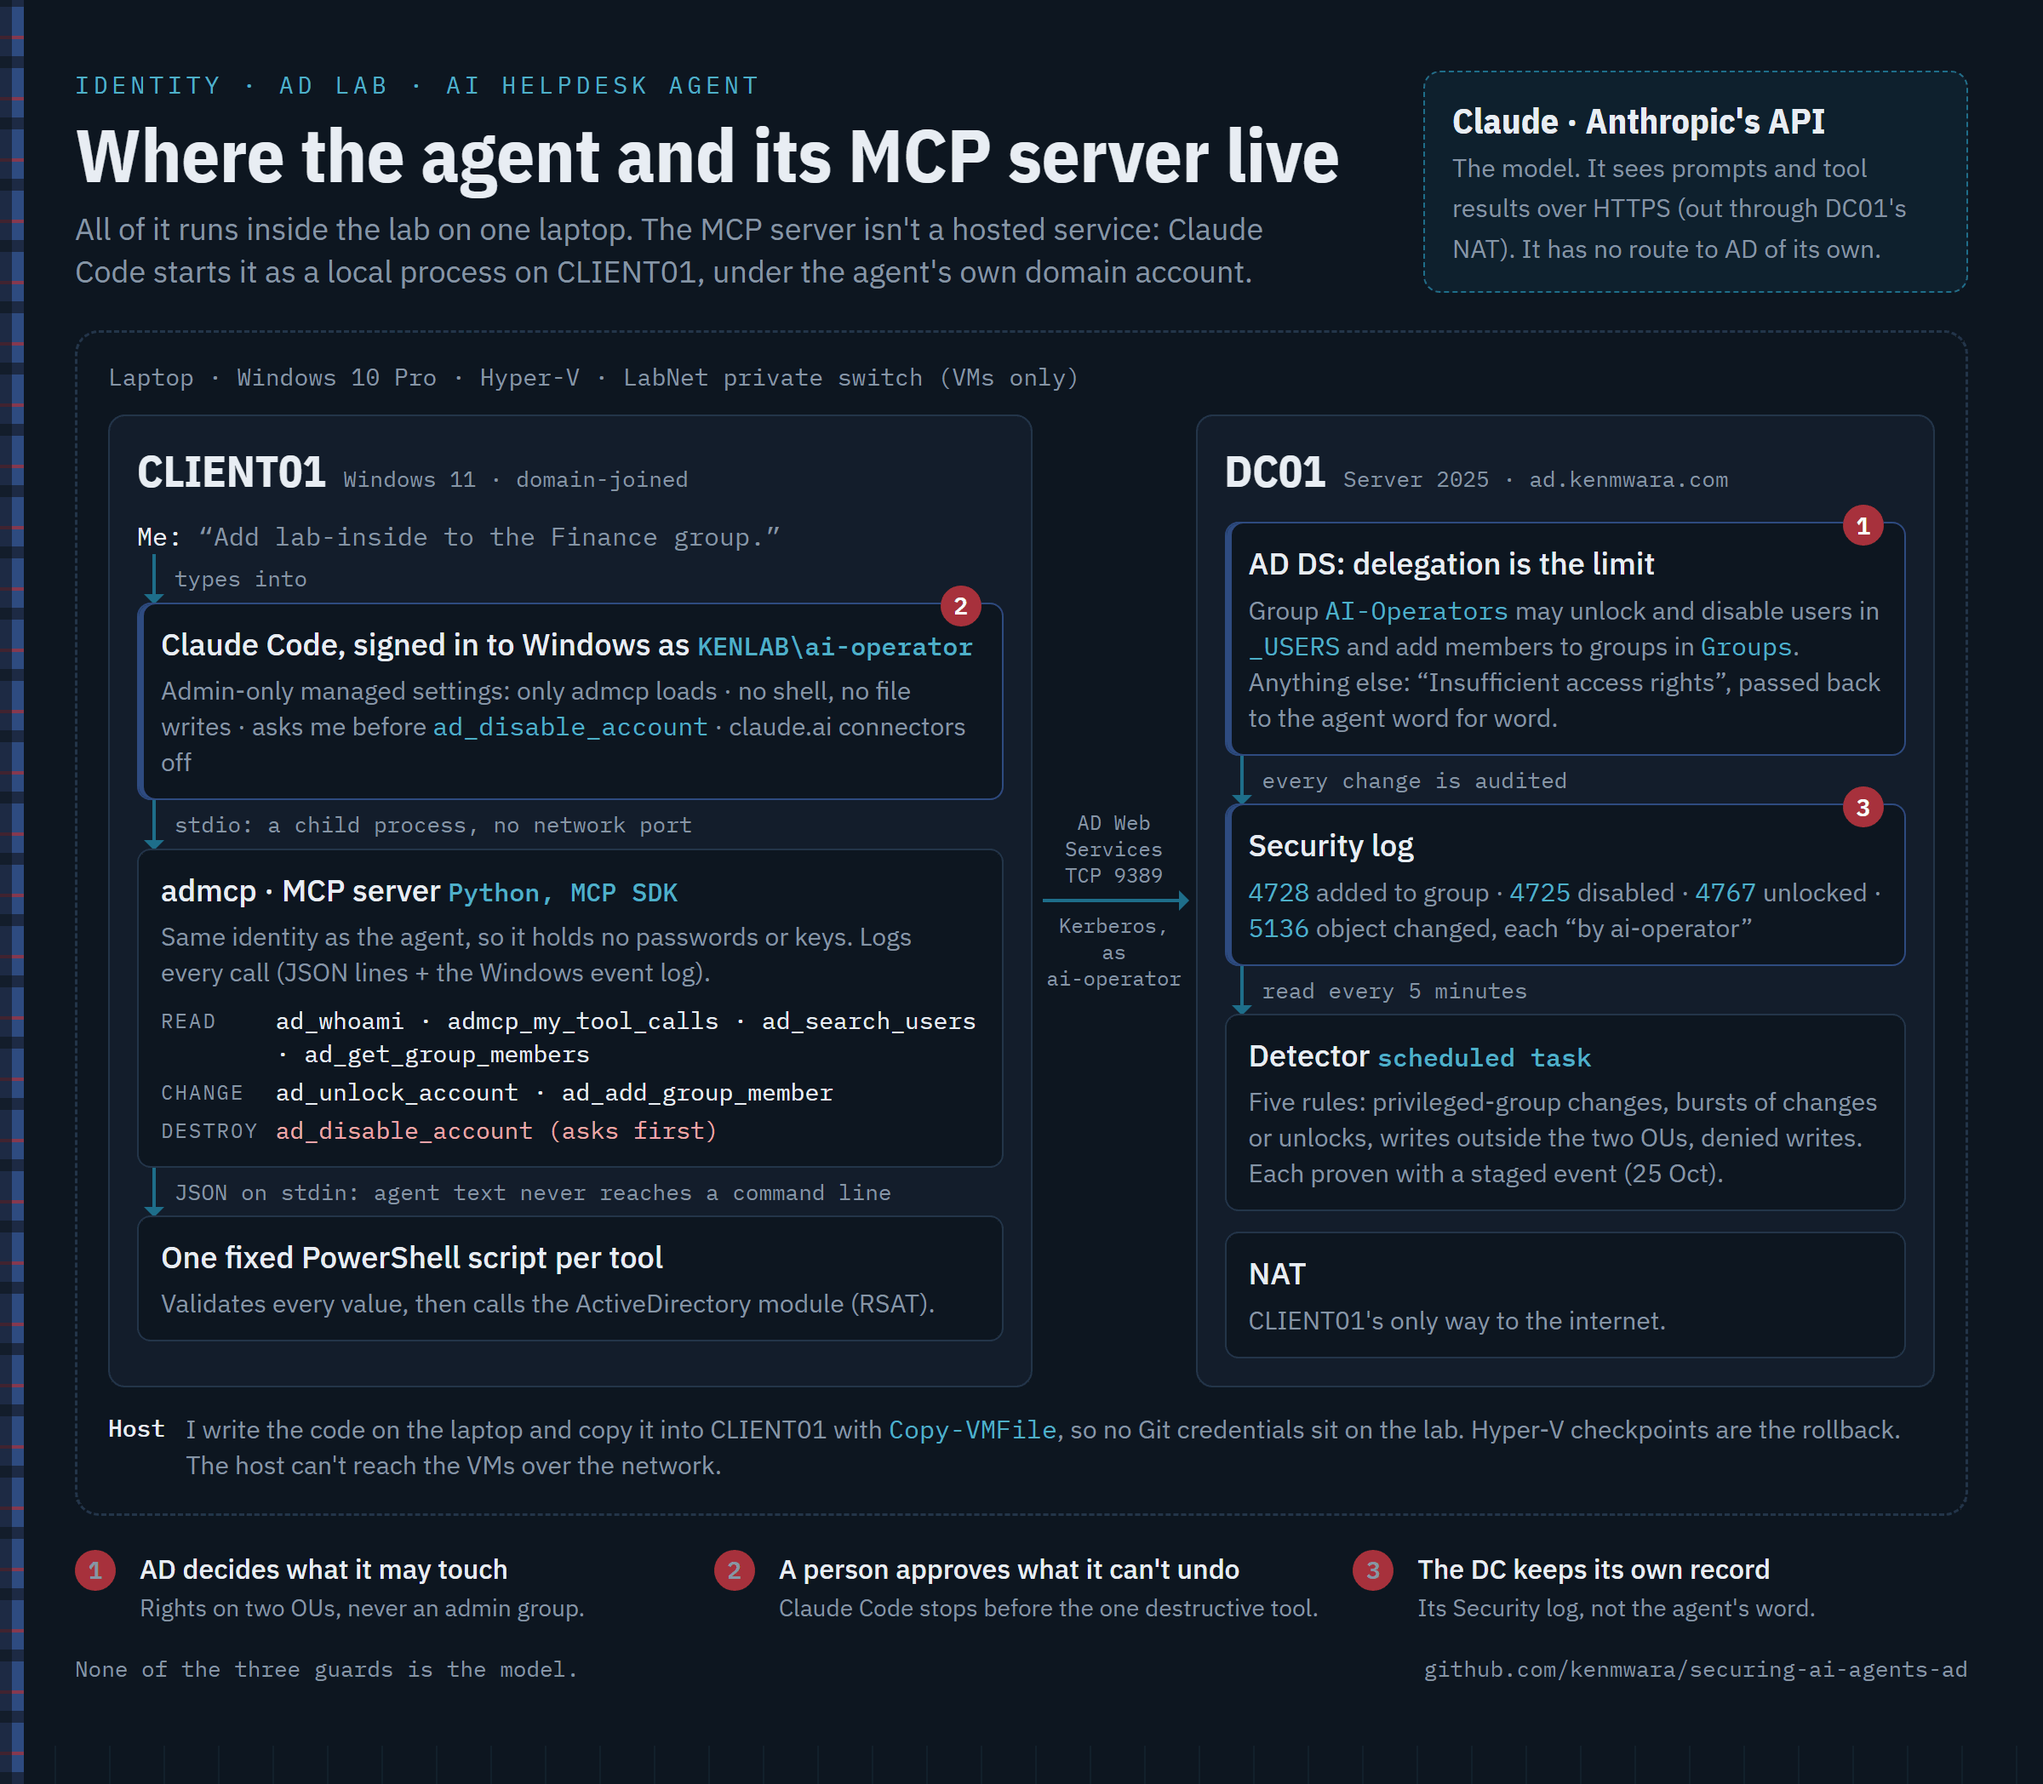
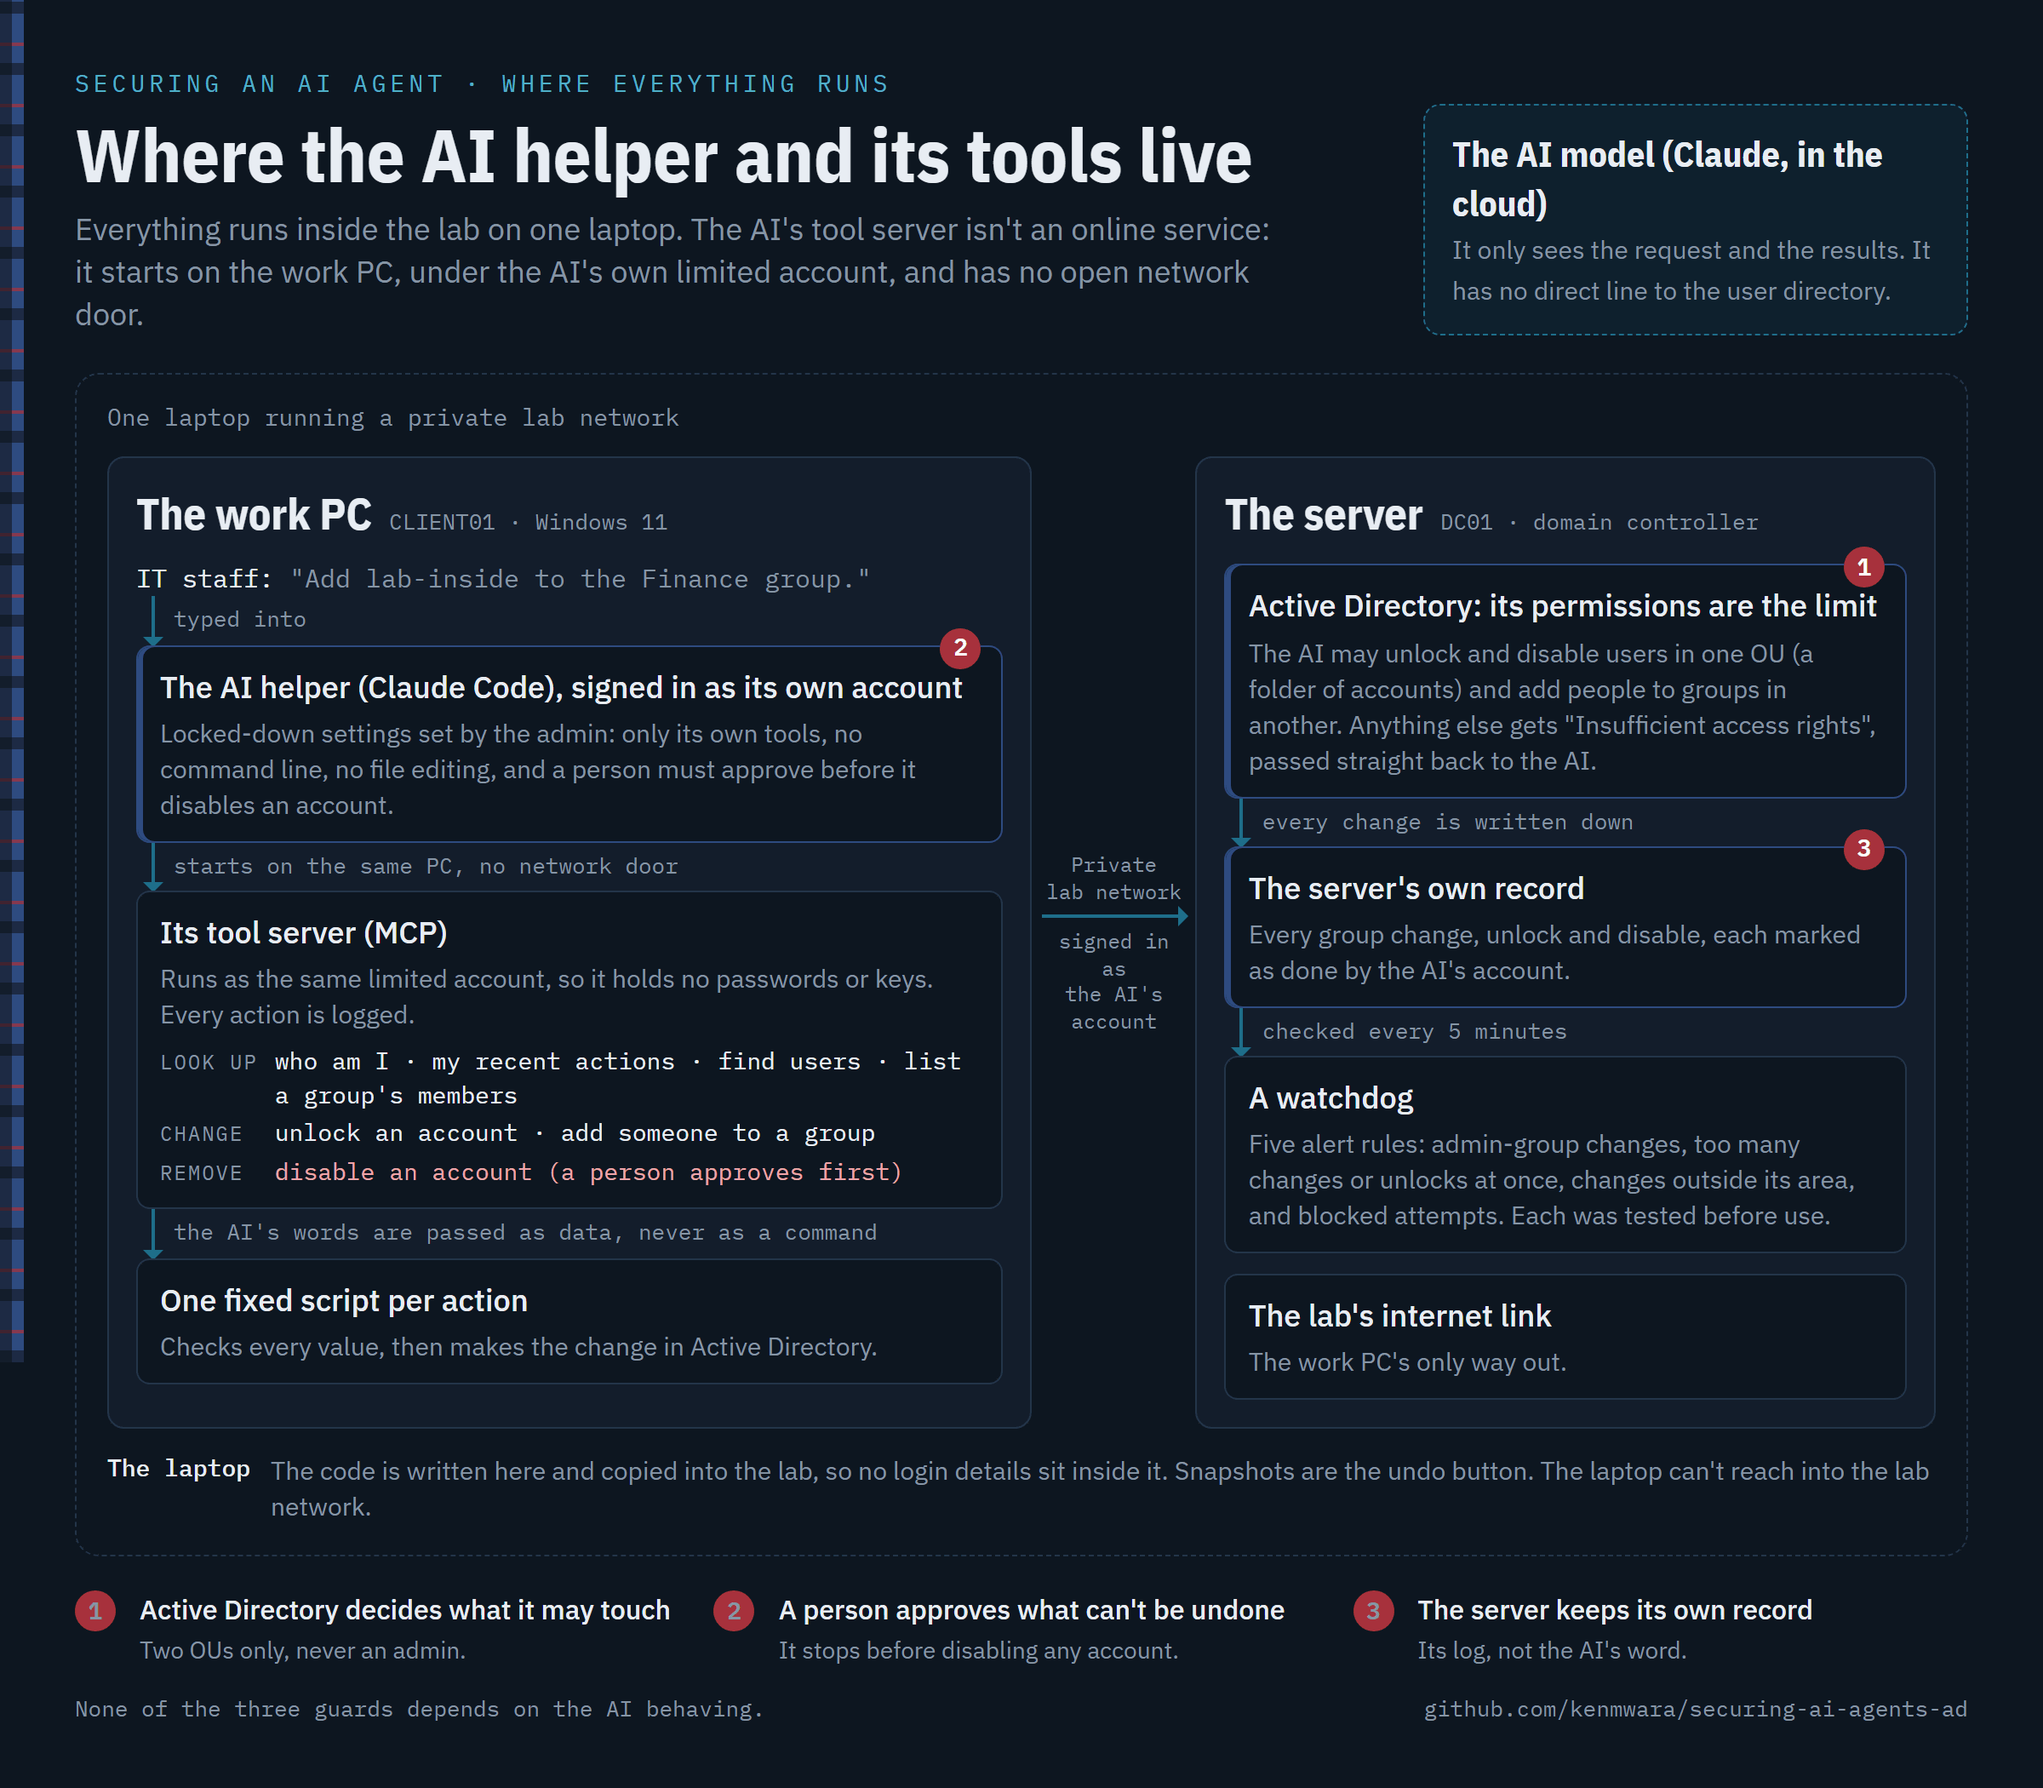
docs: architecture diagram in plain English (no first person, no internals)

diff --git a/README.md b/README.md
@@ -64,7 +64,7 @@ How the agent was built and where it runs:
 
 <img src="images/flow.png" width="100%" alt="How the AI helper works. Securing an AI agent · how the helper works An AI IT helper with a guard at every step 1IT staff ask in plain English'Unlock jsmith's account' 2The AI picks an actionIt runs on a helpdesk computer, signed in with its own limited account 3A tool server carries it outOnly 7 approved actions. It can't run commands or edit files 4Active Directory decidesThe change happens only if the AI is allowed to make it 5Everything is recordedThe domain controller logs it, and raises an alert on anything unusual Guard at step 3It can only use the 7 actions it was given Guard at step 4Allowed into two OUs (folders of accounts), never an admin Guard at step 5The server keeps its own record, not the AI's word Tested with 13 attack scenarios: hidden commands ignored, admin requests refused, bulk changes caught.github.com/kenmwara/securing-ai-agents-ad">
 
-<img src="images/architecture.png" width="100%" alt="Detailed architecture. On the LabNet private switch, CLIENT01 runs Claude Code as KENLAB\ai-operator under admin-only managed settings; it starts the admcp MCP server over stdio. admcp exposes seven tools and runs one fixed PowerShell script per tool with arguments as JSON on stdin; the scripts reach DC01 over AD Web Services (TCP 9389) with Kerberos as ai-operator. On DC01, AD delegation limits the AI-Operators group to users in _USERS and groups in Groups, the Security log records 4728, 4725, 4767 and 5136 by ai-operator, and a detector task reads it every five minutes. The model is reached over HTTPS through DC01's NAT and has no route to AD.">
+<img src="images/architecture.png" width="100%" alt="Where the AI helper and its tools live. Securing an AI agent · where everything runs Where the AI helper and its tools live Everything runs inside the lab on one laptop. The AI's tool server isn't an online service: it starts on the work PC, under the AI's own limited account, and has no open network door. The AI model (Claude, in the cloud) It only sees the request and the results. It has no direct line to the user directory. One laptop running a private lab network The work PC CLIENT01 · Windows 11 IT staff: 'Add lab-inside to the Finance group.' typed into 2 The AI helper (Claude Code), signed in as its own account Locked-down settings set by the admin: only its own tools, no command line, no file editing, and a person must approve before it disables an account. starts on the same PC, no network door Its tool server (MCP) Runs as the same limited account, so it holds no passwords or keys. Every action is logged. look up who am I · my recent actions · find users · list a group's members change unlock an account · add someone to a group remove disable an account (a person approves first) the AI's words are passed as data, never as a command One fixed script per action Checks every value, then makes the change in Active Directory. Private lab network signed in as the AI's account The server DC01 · domain controller 1 Active Directory: its permissions are the limit The AI may unlock and disable users in one OU (a folder of accounts) and add people to groups in another. Anything else gets 'Insufficient access rights', passed straight back to the AI. every change is written down 3 The server's own record Every group change, unlock and disable, each marked as done by the AI's account. checked every 5 minutes A watchdog Five alert rules: admin-group changes, too many changes or unlocks at once, changes outside its area, and blocked attempts. Each was tested before use. The lab's internet link The work PC's only way out. The laptop The code is written here and copied into the lab, so no login details sit inside it. Snapshots are the undo button. The laptop can't reach into the lab network. 1 Active Directory decides what it may touch Two OUs only, never an admin. 2 A person approves what can't be undone It stops before disabling any account. 3 The server keeps its own record Its log, not the AI's word. None of the three guards depends on the AI behaving. github.com/kenmwara/securing-ai-agents-ad">
 
 Three controls contain the agent. None of them depends on the model.
 
